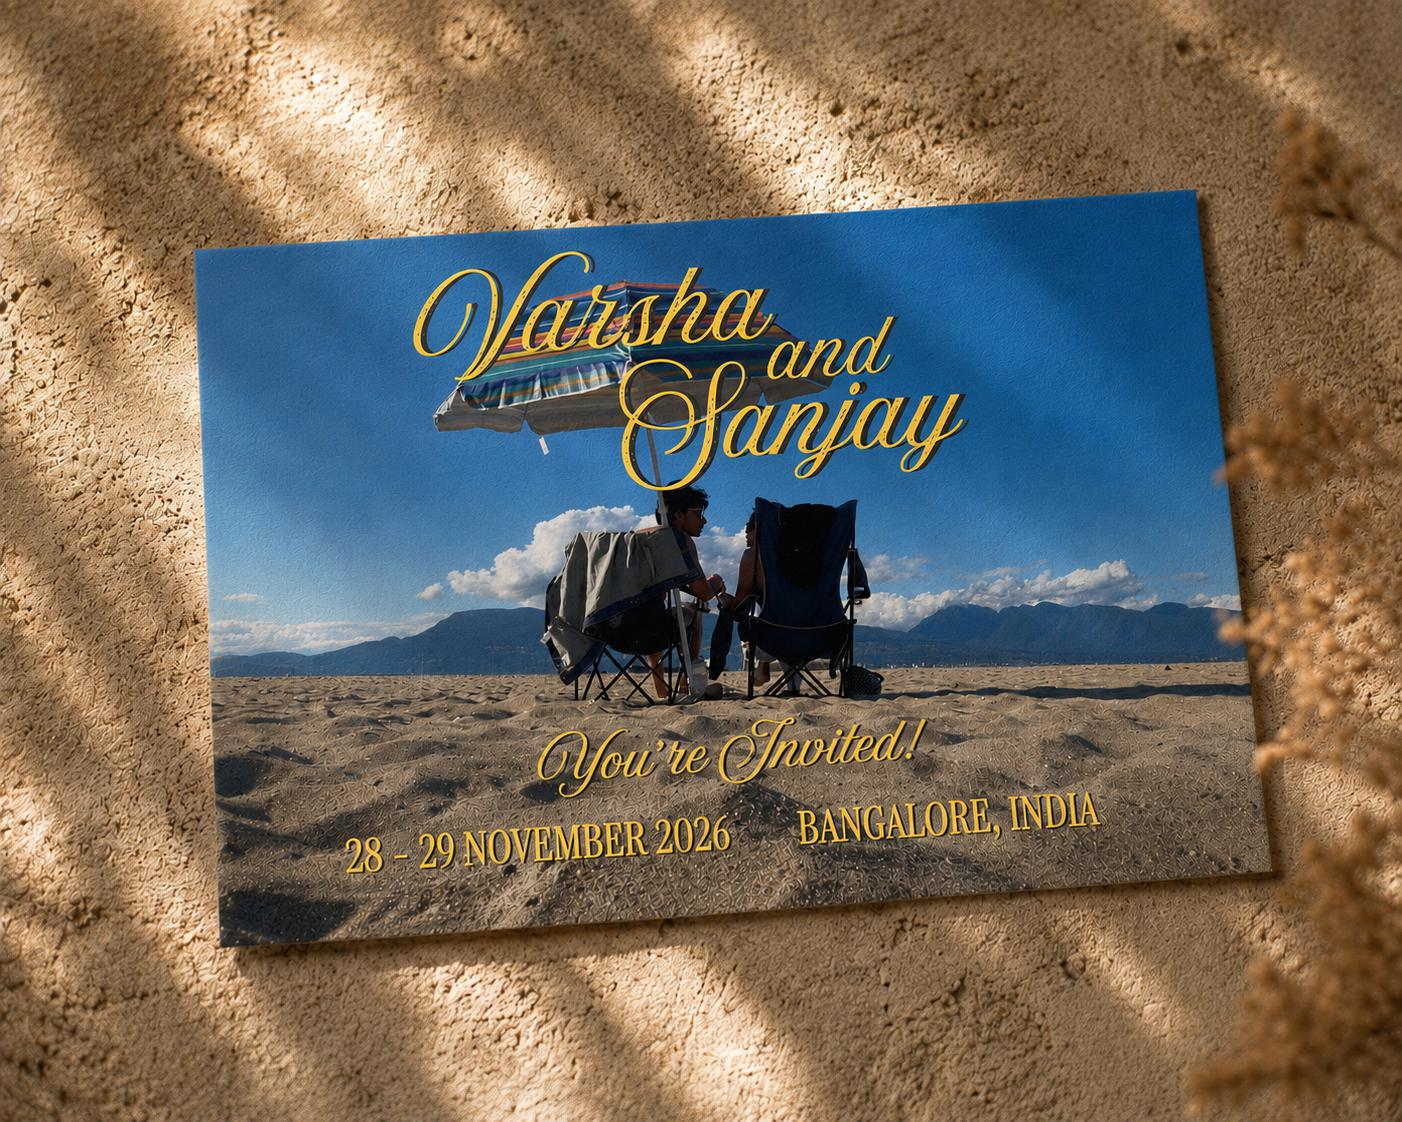
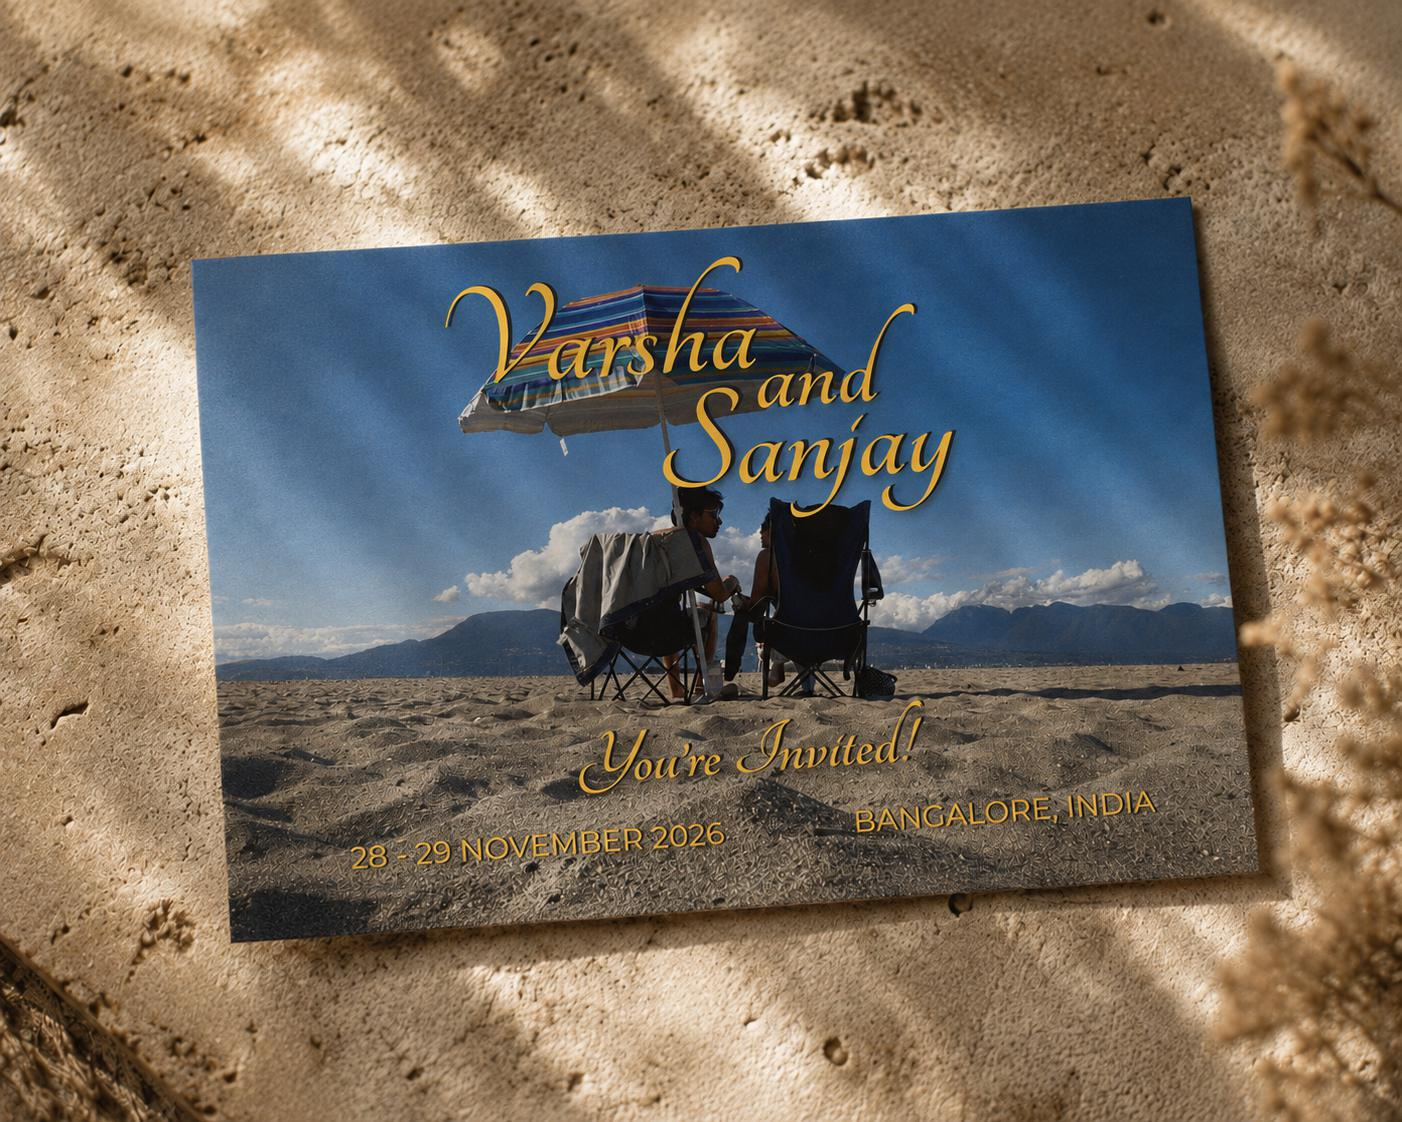
Hero: hero-img-5
Built from hero-img-5.png (2.9 MB) to a 269 KB JPEG at quality 74. Same
1402x1122. Cache version bumped to v=4.

diff --git a/index.html b/index.html
@@ -12,7 +12,7 @@
 <meta property="og:title" content="Varsha &amp; Sanjay's Wedding — 28 &amp; 29 November 2026">
 <meta property="og:description" content="Peacock Grove, Bangalore">
 <meta property="og:url" content="https://varshaandsanjay.com/">
-<meta property="og:image" content="https://varshaandsanjay.com/assets/img/hero-image.jpg?v=3">
+<meta property="og:image" content="https://varshaandsanjay.com/assets/img/hero-image.jpg?v=4">
 
 <link rel="canonical" href="https://varshaandsanjay.com/">
 
@@ -25,7 +25,7 @@
 <link rel="stylesheet" href="https://fonts.googleapis.com/css2?family=Montserrat:ital,wght@0,300;0,400;0,500;0,600;1,300;1,400&family=Tangerine:wght@400;700&display=swap" media="print" onload="this.media='all'">
 <noscript><link rel="stylesheet" href="https://fonts.googleapis.com/css2?family=Montserrat:ital,wght@0,300;0,400;0,500;0,600;1,300;1,400&family=Tangerine:wght@400;700&display=swap"></noscript>
 
-<link rel="preload" as="image" href="assets/img/hero-image.jpg?v=3">
+<link rel="preload" as="image" href="assets/img/hero-image.jpg?v=4">
 <!-- The ?v= is a cache-buster. Browsers hold on to a stylesheet hard, so
      after editing style.css bump this number (v=2, v=3 …) and everyone gets
      the new one immediately instead of a stale copy. -->
@@ -50,7 +50,7 @@
      ========================================================================= -->
 <header class="hero hero--plate" id="top">
   <picture class="hero__media">
-    <img src="assets/img/hero-image.jpg?v=3"
+    <img src="assets/img/hero-image.jpg?v=4"
          alt="Varsha and Sanjay sitting under a striped beach umbrella, printed on a save-the-date card resting on sand"
          width="1402" height="1122" fetchpriority="high" decoding="async">
   </picture>
